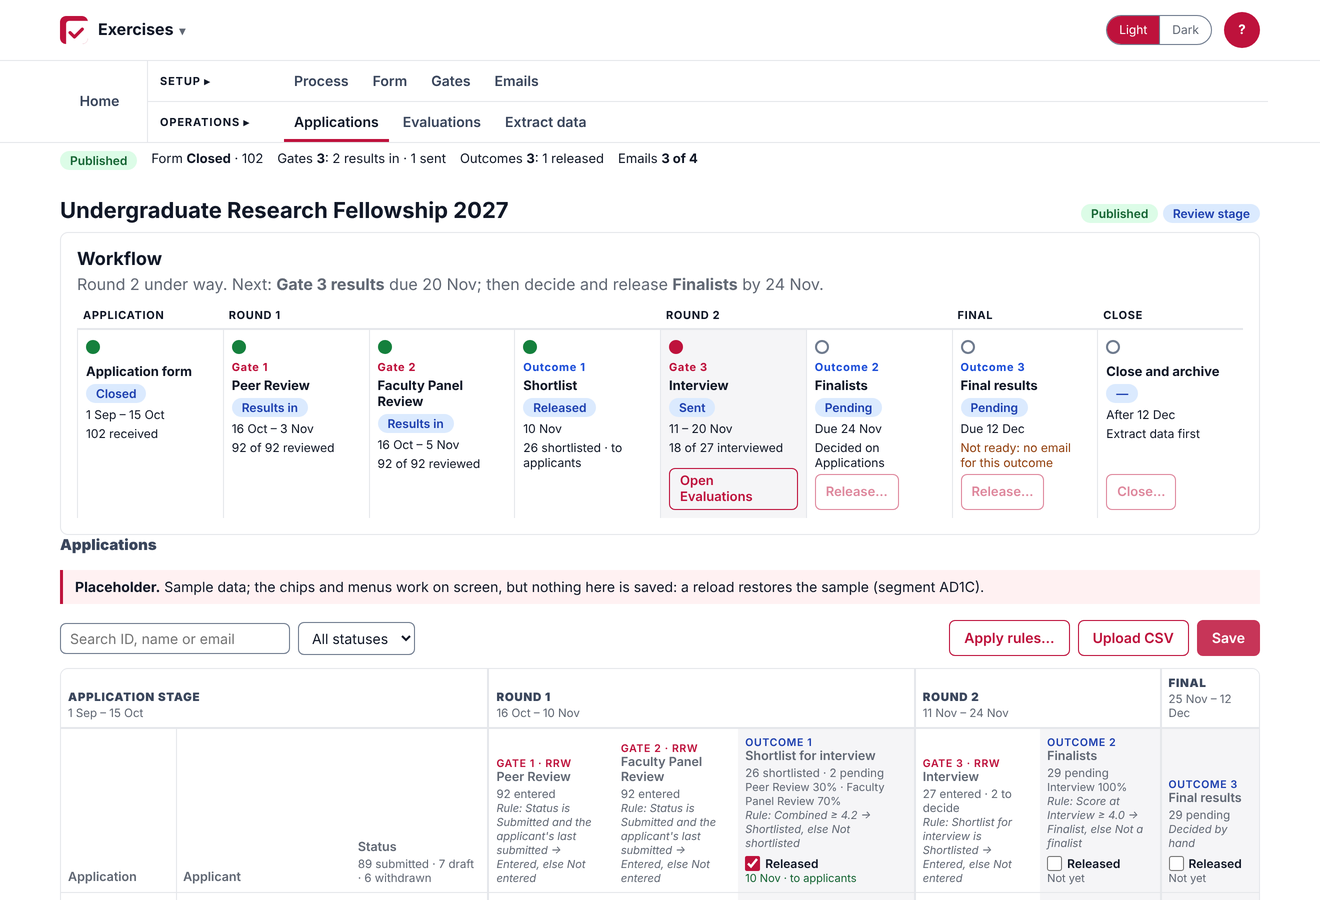
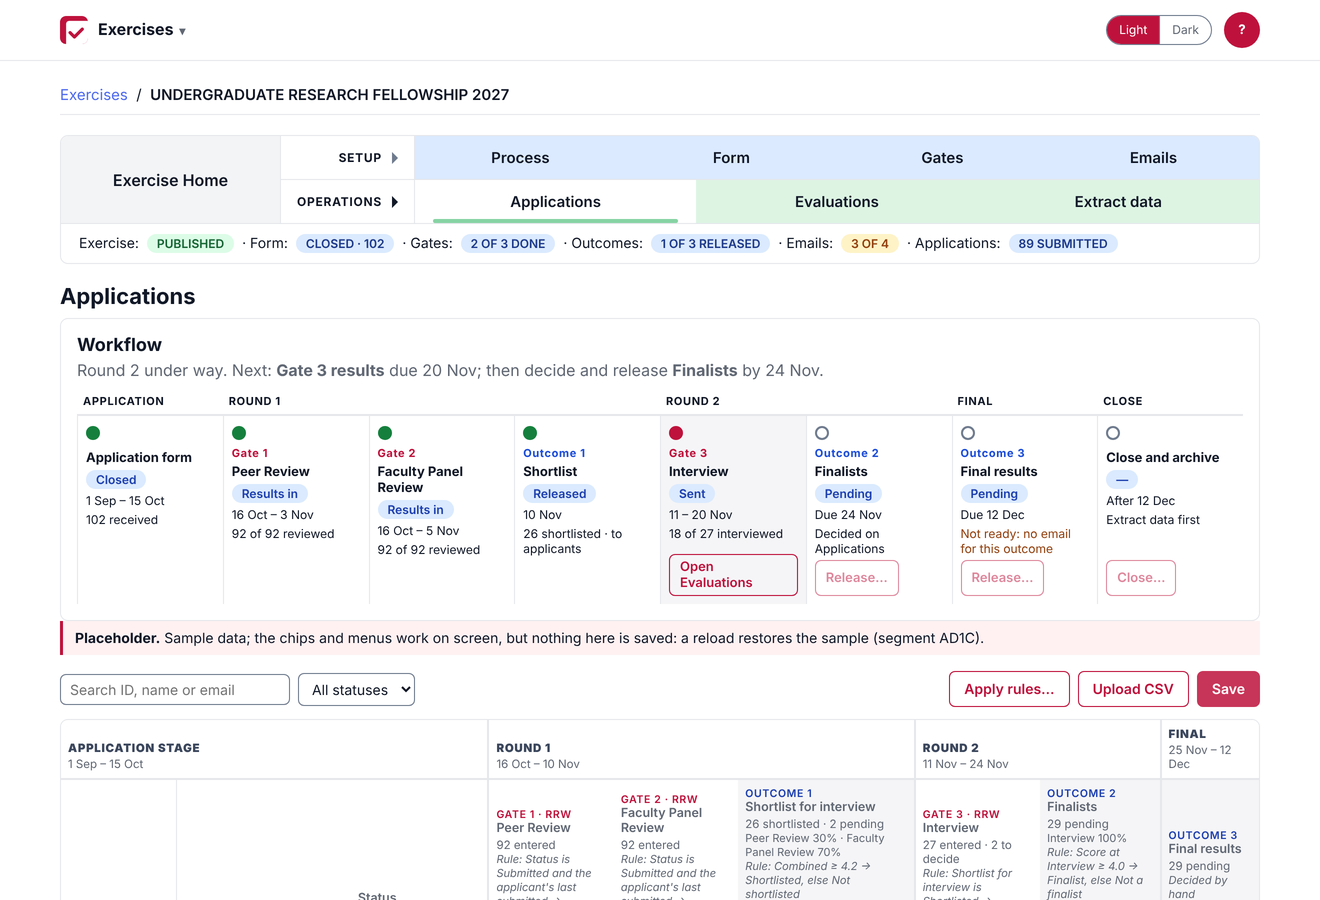
AD1D plan: Review Robin's chrome styling; the author's two answers
The mock-ups redrawn in Review Robin's chrome styling. Workflow actions
stay inert before AD2. Emails is the one place templates are kept;
Process sets which steps send one, and when.

Claude-Session: https://claude.ai/code/session_01EGHzRKuz83esjWDp2w5uW6

diff --git a/applydesk/guide/segment_AD1D_chrome.md b/applydesk/guide/segment_AD1D_chrome.md
@@ -17,10 +17,11 @@ An exercise has seven tabs in one row (Home, Setup, Form, Applications, Panels, 
 ```
 
 1. **Home**: the exercise's details, the Workflow card, owners, the danger zone (close and archive).
-2. **Setup**: **Process** (rounds, gates placed in them, outcomes, dates, every rule, what a release does), **Form** (AD1B), **Gates** (one card per gate: its panel roster, what the panel sees, how it is run, its result's measure), **Emails** (to applicants: the receipt, reminders before the form closes, a notice per outcome).
+2. **Setup**: **Process** (rounds, gates placed in them, outcomes, dates, every rule, what a release does), **Form** (AD1B), **Gates** (one card per gate: its panel roster, what the panel sees, how it is run, its result's measure), **Emails** (the one place the templates to applicants are kept: the receipt, reminders before the form closes, a notice per outcome; Process says which steps send one, and when).
 3. **Operations**: **Applications** (AD1C, the control surface), **Evaluations** (each gate's progress and results from Review Robin), **Extract data**.
-4. **A status row** under the chrome on every page: the exercise's state, then the form, gates, outcomes and emails at a glance.
-5. **The Workflow card** on Home and every Operations page: the timeline as a stepper, each item with its state; the one due next carries its action; one not ready says why.
+4. **Styled as Review Robin's** (author, 2026-11-13): a card under the breadcrumb (*Exercises / name*); *Exercise Home* double-height on the left; uppercase row labels with a triangle; the Setup row tinted blue, the Operations row green, the tabs sharing each row's width; the active tab white with its row's underline.
+5. **A status row** inside that card, under the tabs, on every page: the exercise's state, then the form, gates, outcomes and emails at a glance.
+6. **The Workflow card** on Home and every Operations page: the timeline as a stepper, each item with its state; the one due next carries its action; one not ready says why.
 
 **Rejected:**
 - **One tab per gate**: the chrome would change length with each exercise; one Gates tab with a card per gate keeps it stable, as Review Robin's Instruments page does.
@@ -42,7 +43,7 @@ An exercise has seven tabs in one row (Home, Setup, Form, Applications, Panels, 
 
 - **The Workflow card reads `applydesk/rounds.py`** for the model exercise, so it agrees with Applications; the other exercises get a shorter timeline from their own sample.
 - **Steps are columns, grouped by round**, as the Applications table's headers are: the same groups in the same order on both.
-- **The status row replaces the heading's chips** (state, stage) on exercise pages; the lobby keeps its chips.
+- **The status row replaces the heading's chips** (state, stage) on exercise pages, and the page's `h1` is the page's name (the exercise's on Home), the exercise's name moving to the breadcrumb, as in Review Robin; the lobby keeps its chips.
 
 ## Blast radius (measured)
 
@@ -78,8 +79,8 @@ Taken 2026-11-13 at `bf44ce575`.
 
 ## Open questions
 
-- **What each Workflow step's action does** before AD2 saves anything: a confirmation saying what would happen, or inert (author, at rung 3).
-- **Whether outcomes' email notices sit on Emails or with the outcome on Process** (author, when Emails is built).
+- **What each Workflow step's action does** before AD2: inert (author, 2026-11-13).
+- **Outcome emails**: the templates live on Emails, the one place they are kept; Process sets which steps send one and when (author, 2026-11-13).
 - **`close_check.py` reads only RRW's `guide/`**: this close is checked by hand, as AD1B's and AD1C's are.
 
 ## Out of scope

diff --git a/applydesk/guide/todo_master.md b/applydesk/guide/todo_master.md
@@ -93,7 +93,9 @@ where a ruling below differs from it, the ruling wins.
     Robin's chrome** (author, 2026-11-13; segment AD1D):
     - **Home**, then a **Setup** row: *Process* (rounds, gates, outcomes,
       dates, every rule, what a release does), *Form*, *Gates* (one card
-      per gate, its panel roster on it), *Emails* (to applicants); then
+      per gate, its panel roster on it), *Emails* (every template to
+      applicants, kept in one place; Process sets which steps send one,
+      and when); then
       an **Operations** row: *Applications*, *Evaluations* (each gate's
       progress and results), *Extract data*. Panels folds into Gates,
       Review becomes Evaluations, Reports becomes Extract data, Setup
